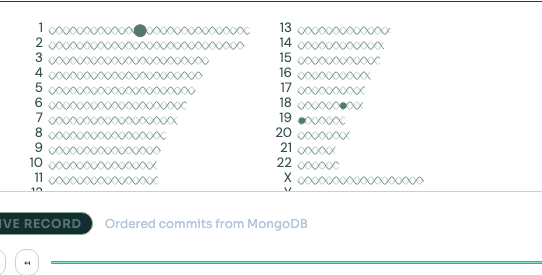
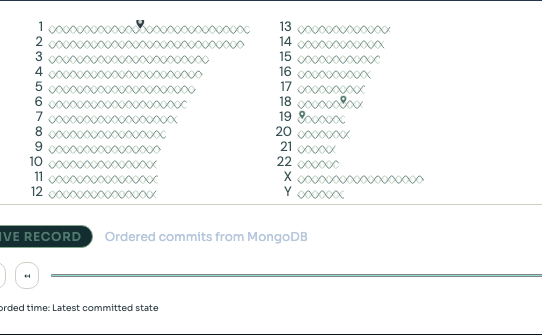
UI: map-pin markers, stutter-free left column, one-by-one call fill
- Candidate markers on genome/chromosome helices are map pins whose tip sits
  on the exact coordinate; selection shown by size and centre, not colour.
- Left column no longer jumps: camera cues no longer auto-scroll the page,
  the header stays one fixed row when LIVE/RECORDED labels change, and the
  now-panel/genome card reserve fixed heights with opacity-only crossfades.
  Measured during replay: scrollY constant, genome card top/bottom within 1px.
- Tree tool/model call bubbles fill in one at a time (CSS only; the left
  column is unaffected).

Changed region(s): [[0.0, 0.0582, 1.0, 0.8727], [0.0, 0.9018, 1.0, 1.0], [0.0, 0.0, 1.0, 0.0291]]

diff --git a/frontend/src/safe-harbor/Genome.tsx b/frontend/src/safe-harbor/Genome.tsx
@@ -1,6 +1,9 @@
 import { useState } from 'react';
 import type { Artifact, Candidate, Catalog } from '../../../shared/contracts';
 import { HelixBar } from './Helix';
+// Map-style pin whose tip sits exactly on the candidate coordinate. Selection is shown by
+// size and a filled centre, not colour alone.
+function MapPin({x,y,selected,scale=1}:{x:number;y:number;selected:boolean;scale?:number}){return <g className={`map-pin ${selected?'selected':''}`} transform={`translate(${x},${y}) scale(${scale})`}><path d="M0 0C-1.6-3.6-6.5-7.4-6.5-11.6A6.5 6.5 0 1 1 6.5-11.6C6.5-7.4 1.6-3.6 0 0Z" className="map-pin-body"/><circle cy={-11.6} r={selected?2.9:2.4} className="map-pin-hole"/></g>;}
 export type Zoom = 'genome'|'chromosome'|'locus'|'sequence';
 interface Feature {start:number;end:number;name?:string;gene_id?:string;strand?:string;transcript_id?:string}
 interface ReferenceAsset {sequence?:{chromosome:string;start:number;end:number;sequence:string;sha256?:string};annotation?:{features:Feature[];coverage:{start:number;end:number;complete:boolean};release:string}}
@@ -32,8 +35,8 @@ export function Genome({catalog,candidates,selected,onSelect,zoom,setZoom,artifa
     <nav className="genome-breadcrumb" aria-label="Genome zoom">{(['genome','chromosome','locus','sequence'] as Zoom[]).map((level,index)=><span key={level}><button disabled={level!=='genome'&&!selected} aria-current={zoom===level?'step':undefined} className={zoom===level?'active':''} onClick={()=>{setOffset(0);setZoom(level);}}>{['Genome',selected?.chromosome??'Chromosome','Locus','Sequence'][index]}</button>{index<3&&<span className="crumb-separator">›</span>}</span>)}</nav>
     <div className="reference-availability" role="status">{referenceNotice}</div>
     <div className={`genome-canvas zoom-${zoom}`} key={`${zoom}-${selected?.candidate_id}`}>
-    {zoom==='genome'&&<>{chromosomes.length?<svg role="img" aria-label="Human GRCh38 chromosomes with publication-derived candidate markers" viewBox="0 0 930 350">{chromosomes.filter(c=>c.chromosome!=='chrM').map((chr,index)=>{const row=index%12,col=Math.floor(index/12),x=col*465+50,y=row*28+13,w=chr.length/Math.max(...chromosomes.map(c=>c.length))*375;return <g key={chr.chromosome}><text x={x-11} y={y+8} textAnchor="end" className="svg-label">{chr.chromosome.replace('chr','')}</text><HelixBar x={x} y={y-2} width={w} height={14} wavelength={26}/>{candidates.filter(c=>c.chromosome===chr.chromosome).map(c=><g key={c.candidate_id} role="button" tabIndex={0} aria-pressed={c.candidate_id===selected?.candidate_id} aria-label={`Select ${c.name}`} onClick={()=>onSelect(c.candidate_id)} onKeyDown={event=>{if(event.key==='Enter'||event.key===' '){event.preventDefault();onSelect(c.candidate_id);}}} className="marker"><title>{c.name} · {formatInterval(c)}</title>{c.candidate_id===selected?.candidate_id&&<circle cx={x+c.start/chr.length*w} cy={y+5} r={11} fill="none" stroke="#d8fff5" strokeWidth={2}/>}<circle cx={x+c.start/chr.length*w} cy={y+5} r={c.candidate_id===selected?.candidate_id?7:5} fill={c.candidate_id===selected?.candidate_id?'#7ee8dd':'#dcae67'} stroke="#101c2e" strokeWidth={2}/></g>)}</g>;})}</svg>:<div className="empty-state">Verified chromosome lengths are loading with the source catalog.</div>}<div className="genome-footnote"><span><i className="dot cyan"/> Ring: selected candidate · other markers: published candidates</span><span>Neutral regions have not been investigated</span></div></>}
-    {zoom==='chromosome'&&selected&&<><div className="chromosome-title"><strong>{selected.chromosome}</strong><span>{length?.toLocaleString()??'Unknown'} reference bases</span></div>{length?<svg viewBox="0 0 930 145" role="img" aria-label={`${selected.chromosome}, selected candidate at ${selected.start}`}><HelixBar x={35} y={55} width={860} height={28} wavelength={34}/>{candidates.filter(c=>c.chromosome===selected.chromosome).map(c=><g key={c.candidate_id} className="marker" onClick={()=>onSelect(c.candidate_id)}><line x1={35+c.start/length*860} x2={35+c.start/length*860} y1={40} y2={96} stroke="#7ee8dd" strokeWidth={4}/><text x={35+c.start/length*860} y={25} textAnchor="middle" className="svg-label">{c.name}</text></g>)}<text x={35} y={120} className="svg-label">1</text><text x={895} y={120} textAnchor="end" className="svg-label">{length.toLocaleString()}</text></svg>:<p>Chromosome length unavailable.</p>}<button className="text-button" onClick={()=>setZoom('locus')}>Inspect selected locus →</button></>}
+    {zoom==='genome'&&<>{chromosomes.length?<svg role="img" aria-label="Human GRCh38 chromosomes with publication-derived candidate markers" viewBox="0 0 930 350">{chromosomes.filter(c=>c.chromosome!=='chrM').map((chr,index)=>{const row=index%12,col=Math.floor(index/12),x=col*465+50,y=row*28+13,w=chr.length/Math.max(...chromosomes.map(c=>c.length))*375;return <g key={chr.chromosome}><text x={x-11} y={y+8} textAnchor="end" className="svg-label">{chr.chromosome.replace('chr','')}</text><HelixBar x={x} y={y-2} width={w} height={14} wavelength={26}/>{candidates.filter(c=>c.chromosome===chr.chromosome).map(c=><g key={c.candidate_id} role="button" tabIndex={0} aria-pressed={c.candidate_id===selected?.candidate_id} aria-label={`Select ${c.name}`} onClick={()=>onSelect(c.candidate_id)} onKeyDown={event=>{if(event.key==='Enter'||event.key===' '){event.preventDefault();onSelect(c.candidate_id);}}} className="marker"><title>{c.name} · {formatInterval(c)}</title><MapPin x={x+c.start/chr.length*w} y={y+5} selected={c.candidate_id===selected?.candidate_id} scale={c.candidate_id===selected?.candidate_id?1.25:0.95}/></g>)}</g>;})}</svg>:<div className="empty-state">Verified chromosome lengths are loading with the source catalog.</div>}<div className="genome-footnote"><span><i className="dot cyan"/> Ring: selected candidate · other markers: published candidates</span><span>Neutral regions have not been investigated</span></div></>}
+    {zoom==='chromosome'&&selected&&<><div className="chromosome-title"><strong>{selected.chromosome}</strong><span>{length?.toLocaleString()??'Unknown'} reference bases</span></div>{length?<svg viewBox="0 0 930 145" role="img" aria-label={`${selected.chromosome}, selected candidate at ${selected.start}`}><HelixBar x={35} y={55} width={860} height={28} wavelength={34}/>{candidates.filter(c=>c.chromosome===selected.chromosome).map(c=><g key={c.candidate_id} className="marker" onClick={()=>onSelect(c.candidate_id)}><MapPin x={35+c.start/length*860} y={69} selected={c.candidate_id===selected.candidate_id} scale={1.9}/><text x={35+c.start/length*860} y={16} textAnchor="middle" className="svg-label">{c.name}</text></g>)}<text x={35} y={120} className="svg-label">1</text><text x={895} y={120} textAnchor="end" className="svg-label">{length.toLocaleString()}</text></svg>:<p>Chromosome length unavailable.</p>}<button className="text-button" onClick={()=>setZoom('locus')}>Inspect selected locus →</button></>}
     {zoom==='locus'&&selected&&<><div className="track-heading"><span>{annotation?.release??'Annotations unavailable'}</span><span>{annotation?.coverage.complete?'Complete coverage of displayed window':'Coverage not verified'}</span></div><svg viewBox="0 0 940 215" role="img" aria-label={`Coordinate-correct annotation view for ${formatInterval(selected)}`}><line x1={45} x2={895} y1={40} y2={40} stroke="#40546c"/>{Array.from({length:5},(_,i)=>{const pos=start+(end-start)*i/4;return <g key={i}><line x1={px(pos)} x2={px(pos)} y1={35} y2={190} stroke="#22334a"/><text x={px(pos)} y={24} textAnchor="middle" className="svg-label">{Math.round(pos+1).toLocaleString()}</text></g>;})}<rect x={px(selected.start)} width={Math.max(2,px(selected.end)-px(selected.start))} y={42} height={142} fill="#6cdbcc22" stroke="#7ee8dd"/><text x={px(selected.start)+5} y={62} className="svg-label accent-text">{selected.name}</text>{uniqueFeatures.slice(0,12).map((f,i)=><g key={`${f.gene_id}-${i}`}><rect x={px(Math.max(start,f.start))} width={Math.max(2,px(Math.min(end,f.end))-px(Math.max(start,f.start)))} y={82+(i%4)*26} height={7} rx={2} fill="#9daec7"/><text x={Math.min(800,px(Math.max(start,f.start)))} y={78+(i%4)*26} className="svg-gene">{f.name??f.gene_id} {f.strand==='-'?'←':'→'}</text></g>)}</svg>{uniqueFeatures.length>0&&<details className="gene-text-alternative"><summary>Displayed genes and strands · exact coordinates</summary><ul>{uniqueFeatures.slice(0,12).map((feature,index)=><li key={index}><strong>{feature.name??feature.gene_id} {feature.strand==='-'?'←':'→'}</strong> ({feature.strand==='-'?'minus':'plus'} strand) · {(feature.start+1).toLocaleString()}–{feature.end.toLocaleString()}</li>)}</ul></details>}{!displayedFeatures.length&&<p className="muted">{annotation?.coverage.complete?'No annotations in this covered window.':'No frozen annotation window available yet.'}</p>}<div className="genome-footnote"><span>SVG reference viewer · merged gene spans, not exon models</span><span>{uniqueFeatures.length} genes{uniqueFeatures.length>12?' · 12 nearest spans shown':''}</span></div><button className="text-button" onClick={()=>setZoom('sequence')}>Read frozen reference bases →</button></>}
     {zoom==='sequence'&&<>{seq&&selected?<><div className="track-heading"><span>{seq.chromosome}:{(sequenceStart+1).toLocaleString()}–{(sequenceStart+bases.length).toLocaleString()}</span><span>GRCh38 · {bases.length} actual reference bases</span></div><div className="sequence-strip" aria-label="Actual reference sequence">{[0,50].map(row=>bases.slice(row,row+50).length>0&&<div className="sequence-row" key={row}><span className="sequence-label">{(sequenceStart+row+1).toLocaleString()}</span><code>{[...bases.slice(row,row+50)].map((base,i)=><span className={`${sequenceStart+row+i>=selected.start&&sequenceStart+row+i<selected.end?'inside-candidate':''} base-${base.toUpperCase()}`} title={`${seq.chromosome}:${(sequenceStart+row+i+1).toLocaleString()}`} key={i}>{base.toUpperCase()}</span>)}</code></div>)}</div><div className="sequence-controls"><button onClick={()=>setOffset(value=>value-50)} disabled={sequenceStart<=seq.start}>← 50 bp</button><button onClick={()=>setOffset(value=>value+50)} disabled={sequenceStart+bases.length>=seq.end}>50 bp →</button><span className="muted">Frozen window: {(seq.start+1).toLocaleString()}–{seq.end.toLocaleString()}</span></div><div className="genome-footnote">Highlighted bases fall inside the published candidate interval. Reference sequence is not a personalized H1 genome. Source letter case is normalized to uppercase for display.</div>{seq.sha256&&<div className="hash-line">SHA-256 {seq.sha256}</div>}</>:<div className="empty-state">Actual reference bases are unavailable for this record. No sequence is inferred.</div>}</>}
     </div>{selected&&<div className="coordinate-footer"><span className="coordinate-value">{formatInterval(selected)}</span><span>Display: 1-based inclusive · stored: [{selected.start}, {selected.end})</span></div>}

diff --git a/frontend/src/safe-harbor/TreeChart.tsx b/frontend/src/safe-harbor/TreeChart.tsx
@@ -9,7 +9,7 @@ import { deriveBranches } from './AgentTree';
 import { taskName } from './Graph';
 
 type Status = 'complete' | 'running' | 'queued' | 'planned' | 'failed' | 'blocked' | 'reopened' | 'superseded';
-interface TNode { id: string; level: number; label: string; sub?: string; status: Status; tip: string; children: TNode[]; act?: () => void; x: number; y: number; w: number }
+interface TNode { id: string; level: number; label: string; sub?: string; status: Status; tip: string; children: TNode[]; act?: () => void; x: number; y: number; w: number; order?: number }
 const MAX_CALLS = 5;
 const statusWord: Record<Status, string> = { complete: 'Complete', running: 'Running', queued: 'Queued', planned: 'Not started', failed: 'Failed', blocked: 'Blocked', reopened: 'Reopened', superseded: 'Superseded' };
 const trunc = (s: string, n: number) => (s.length > n ? `${s.slice(0, n - 1)}…` : s);
@@ -51,7 +51,7 @@ export function TreeChart({ run, tasks, artifacts, candidates, selectedTask, cur
       const agents: TNode[] = b.agents.map(a => {
         const t = a.task;
         const shown = a.calls.slice(0, MAX_CALLS);
-        const calls: TNode[] = shown.map(c => ({ id: `c:${c.id}`, level: 3, label: c.kind === 'model' ? 'model' : trunc(c.label, 14), status: 'complete' as Status, tip: `${c.kind === 'model' ? 'Model call' : 'Tool call'} · ${c.label} · ${c.detail}`, children: [], x: 0, y: 0, w: 30, act: () => { const art = artifacts.find(x => x.artifact_id === c.artifactId); if (art) onSelectArtifact(art); else onSelectTask(t); } }));
+        const calls: TNode[] = shown.map((c, order) => ({ id: `c:${c.id}`, level: 3, order, label: c.kind === 'model' ? 'model' : trunc(c.label, 14), status: 'complete' as Status, tip: `${c.kind === 'model' ? 'Model call' : 'Tool call'} · ${c.label} · ${c.detail}`, children: [], x: 0, y: 0, w: 30, act: () => { const art = artifacts.find(x => x.artifact_id === c.artifactId); if (art) onSelectArtifact(art); else onSelectTask(t); } }));
         if (a.calls.length > MAX_CALLS) calls.push({ id: `c:${t.task_id}:more`, level: 3, label: `+${a.calls.length - MAX_CALLS}`, status: 'complete', tip: `${a.calls.length - MAX_CALLS} more recorded calls · open inspector`, children: [], x: 0, y: 0, w: 30, act: () => onSelectTask(t) });
         const status = t.status as Status;
         return { id: `a:${t.task_id}`, level: 2, label: taskName[t.kind as keyof typeof taskName] ?? t.kind, sub: `${t.role_id} · ${statusWord[status] ?? t.status}`, status, tip: `${taskName[t.kind as keyof typeof taskName] ?? t.kind} · ${statusWord[status] ?? t.status} · ${t.question}`, children: calls, x: 0, y: 0, w: 118, act: () => onSelectTask(t) };
@@ -95,7 +95,7 @@ export function TreeChart({ run, tasks, artifacts, candidates, selectedTask, cur
         <svg ref={svgRef} role="tree" aria-label="Coordinator, candidates, agent tasks and recorded calls" viewBox={`-10 0 ${width + 20} ${height}`} preserveAspectRatio="xMidYMin meet" onKeyDown={onKey}>
           <g className="tree-edges">{edges.map(([a, b]) => <line key={`${a.id}:${b.id}`} data-dependency-source={a.level===2&&b.level===2?a.id.slice(2):undefined} data-dependency-target={a.level===2&&b.level===2?b.id.slice(2):undefined} x1={a.x} y1={a.y} x2={b.x} y2={b.y} className={`edge ${b.status}`} />)}</g>
           {flat.map(n => <g key={n.id} data-node={n.id} role="treeitem" aria-level={n.level + 1} aria-label={n.tip} aria-selected={selectedTask !== undefined && n.id === `a:${selectedTask}`} tabIndex={active === n.id ? 0 : -1}
-            className={`tnode l${n.level} ${n.id === `a:${selectedTask}` ? 'selected' : ''}`} style={{ transform: `translate(${n.x}px, ${n.y}px)` }}
+            className={`tnode l${n.level} ${n.id === `a:${selectedTask}` ? 'selected' : ''}`} style={{ transform: `translate(${n.x}px, ${n.y}px)`, ['--fill-delay' as string]: `${(n.order ?? 0) * 0.45 + 0.3}s` }}
             onFocus={() => { setFocusId(n.id); setHover(n); }} onBlur={() => setHover(null)} onMouseEnter={() => setHover(n)} onMouseLeave={() => setHover(null)} onClick={() => { setFocusId(n.id); n.act?.(); }}>
             <g className="tnode-in"><NodeGlyph status={n.status} r={radius[n.level]} />
               {n.level < 3 ? n.level === 2 ? <><text x={20} y={-2} className="tlabel">{trunc(n.label, 22)}</text><text x={20} y={14} className="tsub">{n.sub}</text></> : <><text y={-radius[n.level] - (n.level ? 22 : 10)} textAnchor="middle" className="tlabel">{trunc(n.label, 22)}</text>{n.sub && <text y={-radius[n.level] - (n.level ? 7 : -48)} textAnchor="middle" className="tsub">{n.sub}</text>}</>

diff --git a/frontend/src/safe-harbor/sage.css b/frontend/src/safe-harbor/sage.css
@@ -174,3 +174,43 @@ body,#root,.safe-harbor-app.sage-app{background:var(--sage-background)!important
 .sage-app,.sage-app button,.sage-app input,.sage-app select,.sage-app textarea{font-family:var(--sage-body)}
 .sage-app h1,.sage-app h2,.sage-app h3,.sage-app .brand span,.sage-app .panel-head h2,.now-head h1,.tree-panel h2,.sage-app .drawer-head h2,.sage-app .rail-heading h1{font-family:var(--sage-display);font-optical-sizing:auto;letter-spacing:-.01em;font-weight:600}
 .sage-app code,.sage-app pre,.sage-app .sequence-row code{font-family:ui-monospace,SFMono-Regular,Menlo,monospace}
+
+/* Map-pin candidate markers */
+.sage-app .genome-canvas .marker .map-pin-body{fill:#52796f;stroke:#fff;stroke-width:1.2}
+.sage-app .genome-canvas .marker .map-pin.selected .map-pin-body{fill:#2f3e46}
+.sage-app .genome-canvas .marker .map-pin-hole{fill:#fff;stroke:none}
+.sage-app .genome-canvas .marker .map-pin.selected .map-pin-hole{fill:#cad2c5}
+.sage-app .genome-canvas .marker{cursor:pointer}
+.sage-app .genome-canvas .marker:focus-visible .map-pin-body{stroke:#2f3e46;stroke-width:2}
+
+/* Tool/model call bubbles fill in one at a time (tree only; presentation-only) */
+.tnode.l3 .tg circle{animation:call-fill .7s cubic-bezier(.4,0,.2,1) both;animation-delay:var(--fill-delay,0s)}
+.tnode.l3 .tg path{animation:call-mark .5s ease both;animation-delay:calc(var(--fill-delay,0s) + .45s)}
+.tnode.l3 .tnode-in{animation-delay:var(--fill-delay,0s)}
+@keyframes call-fill{from{fill-opacity:0;stroke-opacity:.35}to{fill-opacity:1;stroke-opacity:1}}
+@keyframes call-mark{from{opacity:0}to{opacity:1}}
+
+/* Stutter-free left column: fixed reserved heights, opacity-only crossfades, no layout shift */
+.now-panel{overflow-anchor:none}
+.now-head{min-height:290px;display:flex;flex-direction:column;animation:now-cross 1.4s cubic-bezier(.4,0,.2,1) both}
+.now-head h1{min-height:2.4em;display:-webkit-box;-webkit-line-clamp:2;-webkit-box-orient:vertical;overflow:hidden}
+.now-question{min-height:3em;display:-webkit-box;-webkit-line-clamp:2;-webkit-box-orient:vertical;overflow:hidden}
+.now-tool{min-height:64px;box-sizing:border-box}
+.now-tool strong,.now-tool span{white-space:nowrap;overflow:hidden;text-overflow:ellipsis;display:block;max-width:100%}
+.now-numbers{min-height:52px}
+.now-zoom .genome-canvas{height:420px;overflow:auto;animation:now-cross 1.4s cubic-bezier(.4,0,.2,1) both;transform:none}
+@keyframes now-cross{from{opacity:.2}to{opacity:1}}
+@media (prefers-reduced-motion:reduce){.tnode.l3 .tg circle,.tnode.l3 .tg path{animation:none}}
+/* Header never re-wraps when LIVE/RECORDED or mode labels change (prevents vertical jumps). */
+.sage-top{flex-wrap:nowrap!important;height:64px;min-height:64px;box-sizing:border-box;overflow:visible}
+.sage-top>*{flex-shrink:0}
+.sage-top .data-version{flex:0 1 auto;min-width:0;max-width:220px;overflow:hidden;text-overflow:ellipsis;white-space:nowrap}
+.sage-top .pill{min-width:88px;text-align:center;justify-content:center}
+.sage-top .cand-chips{margin-left:auto}
+@media (max-width:1380px){.sage-top .data-version{display:none}}
+@media (max-width:1240px){.sage-top .ctx{display:none}}
+/* Genome card keeps one fixed height across genome/chromosome/locus/sequence zooms. */
+.now-zoom .genome-panel{height:590px;box-sizing:border-box;display:flex;flex-direction:column;overflow:hidden}
+.now-zoom .genome-panel>*{flex:none}
+.now-zoom .genome-canvas{flex:1 1 auto!important;height:auto!important;min-height:0;overflow:auto}
+.sage-right .tree-panel{min-height:760px;box-sizing:border-box}

diff --git a/frontend/src/safe-harbor/App.tsx b/frontend/src/safe-harbor/App.tsx
@@ -33,7 +33,7 @@ export function App(){
  const CALM_VIEW_MS=3200;const pendingView=useRef<{candidate_id?:string;zoom?:Zoom}>({});const lastView=useRef(0);const viewTimer=useRef<number|undefined>(undefined);
  const calmView=useCallback((next:{candidate_id?:string;zoom?:Zoom})=>{pendingView.current={candidate_id:next.candidate_id??pendingView.current.candidate_id,zoom:next.zoom??pendingView.current.zoom};const flush=()=>{viewTimer.current=undefined;lastView.current=Date.now();const view=pendingView.current;pendingView.current={};if(view.candidate_id)setSelectedId(view.candidate_id);if(view.zoom)setZoom(view.zoom);};const wait=Math.max(0,CALM_VIEW_MS-(Date.now()-lastView.current));if(viewTimer.current===undefined)viewTimer.current=window.setTimeout(flush,wait);},[]);
  useEffect(()=>()=>{if(viewTimer.current!==undefined)clearTimeout(viewTimer.current);},[]);
- const camera=useCameraFollow({cues,position:record.cursor,enabled:follow,stepBudgetMs:1000/record.speed,apply:target=>{calmView({candidate_id:target.candidate_id&&recordState.candidates.some(candidate=>candidate.candidate_id===target.candidate_id)?target.candidate_id:undefined,zoom:target.zoom});if(target.task_id!==undefined)setSelectedTask(target.task_id??undefined);},regions:{genome:()=>document.querySelector('.genome-panel'),conclusion:()=>document.querySelector('.conclusion-panel'),graph:()=>document.querySelector('.graph-panel')}});
+ const camera=useCameraFollow({cues,position:record.cursor,enabled:follow,stepBudgetMs:1000/record.speed,apply:target=>{calmView({candidate_id:target.candidate_id&&recordState.candidates.some(candidate=>candidate.candidate_id===target.candidate_id)?target.candidate_id:undefined,zoom:target.zoom});if(target.task_id!==undefined)setSelectedTask(target.task_id??undefined);}});
  useEffect(()=>{const escape=(event:KeyboardEvent)=>{if(event.key==='Escape')setDrawer(null);};addEventListener('keydown',escape);return()=>removeEventListener('keydown',escape);},[]);
  const openRun=(id:string)=>{if(!id.trim())return;setRunId(id.trim());localStorage.setItem('safe-harbor-run',id.trim());const url=new URL(location.href);url.searchParams.set('run',id.trim());history.replaceState({},'',url);setDrawer(null);setSelectedTask(undefined);requestAnimationFrame(()=>window.scrollTo({top:0,left:0,behavior:'instant'}));};
  const action=async(label:string,fn:()=>Promise<unknown>)=>{setBusy(label);setActionError(null);try{await fn();}catch(e){setActionError(e instanceof Error?e.message:String(e));}finally{setBusy(null);}};

diff --git a/frontend/src/safe-harbor/NowPanel.tsx b/frontend/src/safe-harbor/NowPanel.tsx
@@ -48,7 +48,7 @@ export function NowPanel({ tasks, artifacts, candidates, cueTaskId, genome, foot
       <h1 aria-live="polite">{headline}</h1>
       {task?.question && <p className="now-question">{task.question}</p>}
       <div className="now-tool"><span className="now-tool-icon"><ToolIcon kind={lastCall?.kind ?? 'none'} /></span><div><strong>{lastCall ? (lastCall.kind === 'model' ? 'Model call' : lastCall.label) : task?.status === 'running' ? 'Call in flight — recorded on completion' : 'No call recorded yet'}</strong><span>{lastCall?.detail ?? (cand ? `${cand.chromosome}:${(cand.start + 1).toLocaleString()} · GRCh38` : 'GRCh38 · H1')}</span></div></div>
-      {agent?.hasTrace && <div className="now-numbers"><div><strong>{agent.tools}</strong><span>tool calls</span></div><div><strong>{agent.models}</strong><span>model calls</span></div><div><strong>{agent.tokens.toLocaleString()}</strong><span>tokens</span></div></div>}
+      <div className="now-numbers"><div><strong>{agent?.hasTrace ? agent.tools : '—'}</strong><span>tool calls</span></div><div><strong>{agent?.hasTrace ? agent.models : '—'}</strong><span>model calls</span></div><div><strong>{agent?.hasTrace ? agent.tokens.toLocaleString() : '—'}</strong><span>tokens</span></div></div>
     </div>
     <div className="now-zoom">{genome}</div>
     {footer}
